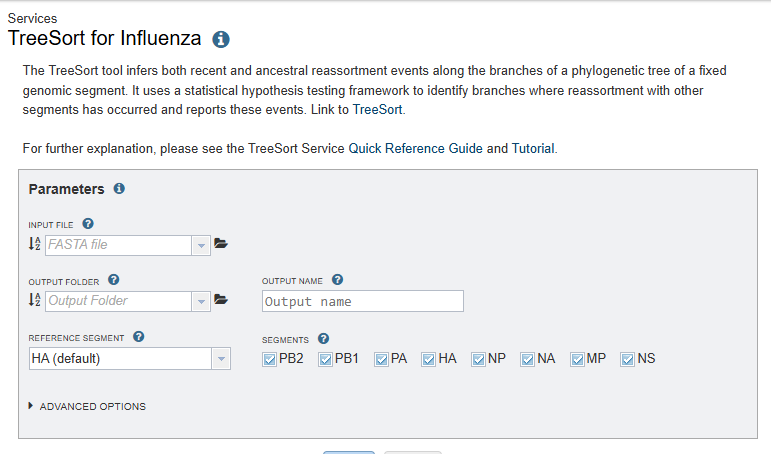
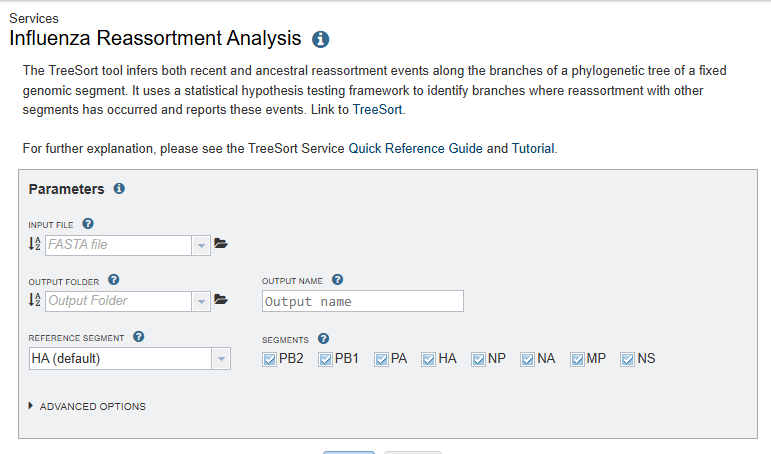
Updated the TreeSort "quick references" document to reflect the name change (Influenza Reassortment Analysis).

Changed region(s): [[0.0, 0.0308, 0.4358, 0.1233]]

diff --git a/docroot/quick_references/services/treesort_service.md b/docroot/quick_references/services/treesort_service.md
@@ -1,20 +1,20 @@
-# TreeSort Service
+# Influenza Reassortment Analysis Service
 
 ## Overview
 
-The idea behind TreeSort is the observation that *if there is no reassortment, then the evolutionary histories of different segments should be identical*. TreeSort then uses a phylogenetic tree for one segment (e.g., the HA influenza A virus segment) as an evolutionary hypothesis for another segment (e.g., the NA segment). We will refer to the first segment as the *reference* and the second segment as the *challenge*. By trying to fit the sequence alignment of the challenge segment to the reference tree, TreeSort identifies points on that tree, where this evolutionary hypothesis breaks. The "breaking" manifests in the mismatch between the divergence time on the reference tree (e.g., 1 year divergence between sister clades) and an unlikely high number of substitutions in the challenge segment that are required to explain the reference tree topology under the null hypothesis of no reassortment.
+The idea behind the Influenza reassortment analysis tool "TreeSort" is the observation that *if there is no reassortment, then the evolutionary histories of different segments should be identical*. TreeSort then uses a phylogenetic tree for one segment (e.g., the HA influenza A virus segment) as an evolutionary hypothesis for another segment (e.g., the NA segment). We will refer to the first segment as the *reference* and the second segment as the *challenge*. By trying to fit the sequence alignment of the challenge segment to the reference tree, TreeSort identifies points on that tree, where this evolutionary hypothesis breaks. The "breaking" manifests in the mismatch between the divergence time on the reference tree (e.g., 1 year divergence between sister clades) and an unlikely high number of substitutions in the challenge segment that are required to explain the reference tree topology under the null hypothesis of no reassortment.
 
 TreeSort has demonstrated very high accuracy in reassortment inference in simulations (manuscript in preparation). TreeSort can process datasets with tens of thousands of virus strains in just a few minutes and can scale to very large datasets with hundreds of thousands of strains. (This overview is from [https://github.com/flu-crew/TreeSort/blob/main/README.md](https://github.com/flu-crew/TreeSort/blob/main/README.md))
 
 #### **NOTE**
-The current version of TreeSort is meant to be used for Influenza viruses ONLY. We hope to provide an updated version in the near future that can be used with common segmented viruses.
+The current version of TreeSort can ONLY be used with nucleotide sequences of an Influenza virus. We hope to provide an updated version in the near future that can be used with common segmented viruses.
 
 ## See Also
   * [TreeSort Service](https://www.bv-brc.org/app/TreeSort)
   * TreeSort Service Tutorial (TODO)
 
 ## Using the TreeSort Service
-In the main menu, **TreeSort** is located under **TOOLS & SERVICES** and **Viral Tools**.
+In the main menu, **Influenza Reassortment Analysis** is located under **TOOLS & SERVICES** and **Viral Tools**.
 
   * *Note: You must be logged into BV-BRC to use this service.*
 
@@ -137,7 +137,7 @@ After selecting one of the output files by clicking it, a set of options becomes
 * **Hide/Show:** Toggles (hides) the right-hand side Details Pane.
 * **Guide** Link to the corresponding User Guide
 * **Download:** Downloads the selected item.
-* **View** Displays the content of the file, typically as plain text or rendered html, depending on filetype.
+* **View** Displays the contents of the file. Depending on the file type, the contents might be displayed as rendered HTML, plain text, a table (CSV and TSV files), or in a tree viewer.
 * **Delete** Deletes the file.
 * **Rename** Allows renaming of the file.
 * **Copy:** Copies the selected items to the clipboard.
